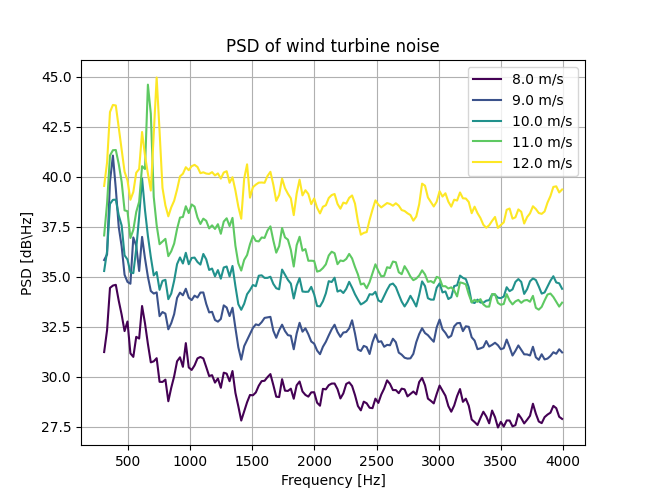
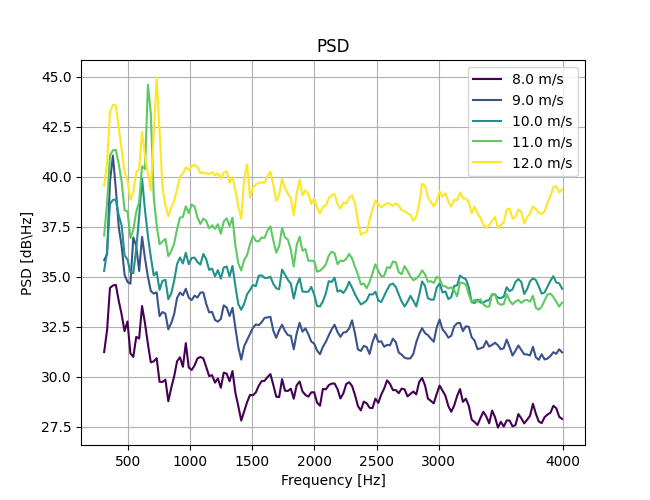
More updates

Changed region(s): [[0.3385, 0.06, 0.6769, 0.12], [0.7385, 0.9, 0.8, 0.93]]

diff --git a/analysis.py b/analysis.py
@@ -96,7 +96,7 @@ for v_inf in v_inf_list:
 
 # Prepare colors for plots
 colors = []
-for i in range(len(v_inf_list)):
+for i in range(len(v_inf_list) + 5):
     colors.append(plt.cm.get_cmap(color_scheme, len(v_inf_list))(i))
 
 
@@ -209,9 +209,10 @@ for df_wt_welch_psd_db, v_inf, color in zip(df_wt_welch_psd_db_list, v_inf_list,
     ax.plot(df_wt_welch_psd_db['freq'], df_wt_welch_psd_db['psd'], color=color, label=f'{v_inf} m/s')
 ax.set_xlabel('Frequency [Hz]')
 ax.set_ylabel('PSD [dB\Hz]')
-ax.set_title('PSD of wind turbine noise')
+ax.set_title('PSD')
 ax.legend()
 ax.grid(True)
+plt.xticks(x_ticks, x_ticks)
 plt.savefig('saves/PSD.png')
 plt.show()
 
@@ -235,13 +236,10 @@ for df_bg_welch_psd, df_wt_welch_psd, df_wt_bg_welch_psd, v_inf in zip(df_bg_wel
     df_wt_bg_spl = pd.DataFrame(columns=['freq', 'spl'])
 
     for l, c, u in zip(freq_bands[:-1], freq_bands[1:], freq_bands[2:]):
-        print("l", l)
-        print("c", c)
-        print("u", u)
         # Sum PSD in band
-        sum_bg = df_bg_welch_psd[(df_bg_welch_psd['freq'] >= l) & (df_bg_welch_psd['freq'] < u)].sum()
-        sum_wt = df_wt_welch_psd[(df_wt_welch_psd['freq'] >= l) & (df_wt_welch_psd['freq'] < u)].sum()
-        sum_wt_bg = df_wt_bg_welch_psd[(df_wt_bg_welch_psd['freq'] >= l) & (df_wt_bg_welch_psd['freq'] < u)].sum()
+        sum_bg = df_bg_welch_psd[(df_bg_welch_psd['freq'] >= l) & (df_bg_welch_psd['freq'] <= u)].sum()
+        sum_wt = df_wt_welch_psd[(df_wt_welch_psd['freq'] >= l) & (df_wt_welch_psd['freq'] <= u)].sum()
+        sum_wt_bg = df_wt_bg_welch_psd[(df_wt_bg_welch_psd['freq'] >= l) & (df_wt_bg_welch_psd['freq'] <= u)].sum()
 
         # Add row to dataframe
         df_bg_spl = df_bg_spl.append({'freq': c, 'spl': sum_bg[0] * freq_step}, ignore_index=True)
@@ -266,12 +264,13 @@ for df_bg_welch_psd, df_wt_welch_psd, df_wt_bg_welch_psd, v_inf in zip(df_bg_wel
 # Plot results for wind turbine per v_inf
 fig, ax = plt.subplots(figsize=(size_x, size_y))
 for df_wt_spl, v_inf, color in zip(df_wt_spl_list, v_inf_list, colors):
-    ax.plot(df_wt_spl['freq'], df_wt_spl['spl'], color=color, label=f'{v_inf} m/s')
+    sns.lineplot(x='freq', y='spl', data=df_wt_spl, color=color, label=f'{v_inf} m/s')
 ax.set_xlabel('Frequency [Hz]')
 ax.set_ylabel('SPL [dB]')
-ax.set_title('SPL of wind turbine noise')
+ax.set_title('SPL')
 ax.legend()
 ax.grid(True)
+plt.xticks(x_ticks, x_ticks)
 plt.savefig('saves/SPL.png')
 plt.show()
 
@@ -335,9 +334,10 @@ for df_wt_spl_1_3, df_bpm, v_inf, color in zip(df_wt_spl_1_3_list, df_bpm_list, 
 ax.set_xscale('log')
 ax.set_xlabel('Frequency [Hz]')
 ax.set_ylabel('SPL [dB]')
-ax.set_title('SPL of wind turbine noise')
+ax.set_title('SPL (1/3)')
 ax.legend()
 ax.grid(True)
+plt.xticks(x_ticks, x_ticks)
 plt.savefig('saves/SPL_1_3.png')
 plt.show()
 

diff --git a/BPM_BYU/run_validation_case.py b/BPM_BYU/run_validation_case.py
@@ -8,24 +8,33 @@ import csv
 turbx = np.array([0.])
 turby = np.array([0.])
 obs = np.array([0., 0., 1.22])
-winddir = 0.
-B = 2.
-h = 1.775
-rad = np.linspace(0, 0.4572, 10)
-c = np.array([0.3048, 0.3048, 0.3048, 0.3048, 0.3048, 0.3048, 0.3048, 0.3048, 0.3048, 0.3048])
+winddir = 90.
+B = 3.
+h = 1.22
+rad = np.linspace(0, 0.4572, 1000)
+c = np.ones(len(rad) - 1) * 0.3048
 c1 = c * 0.25
-alpha = np.array([1.516, 1.516, 1.516, 1.516, 1.516, 1.516, 1.516, 1.516, 1.516, 1.516])
-nu = 1.78e-5
-c0 = 343.2
-psi = 0
-AR = 6.66
-noise_corr = 0  # 0.8697933840957954
+alpha = np.ones(len(rad) - 1) * 1.516
+nu = 1.4529e-5
+c0 = 340.46
+psi = 0.
+AR = 0.4572 / 0.3048
+noise_corr = 0.8697933840957954
+
+print len(rad)
+print rad
+print len(c)
+print c
+print len(c1)
+print c1
+print len(alpha)
+print alpha
 
 # Iterate over velocities
 for vel in [71.3]:
 
 	windvel = np.array([vel])
-	rpm = np.array([vel * 7 * 9.549297])
+	rpm = np.array([vel * 5 * 9.549297])
 
 	SPL_HAWT = _bpmacoustic.turbinepos(turbx, turby, obs, winddir, windvel, rpm, B, h, rad, c, c1, alpha, nu, c0, psi, AR, noise_corr)
 

diff --git a/BPM_BYU/data_validation_case/plot.py b/BPM_BYU/data_validation_case/plot.py
@@ -1,0 +1,26 @@
+import matplotlib.pyplot as plt
+import numpy as np
+import pandas as pd
+import seaborn as sns
+
+f_lower = 100  # Hz
+f_upper = 30000 # Hz
+scaling_factor = 1
+size_x = 6.5 * scaling_factor
+size_y = 5 * scaling_factor
+x_ticks = [500, 1000, 1500, 2000, 2500, 3000, 4000, 5000]
+
+# Load BPM data
+df_bpm = pd.read_csv('data71.csv', sep=',')
+df_bpm = df_bpm[(df_bpm['freq'] >= f_lower) & (df_bpm['freq'] <= f_upper)]
+
+# Plot comparison on same axes
+fig, ax = plt.subplots(figsize=(size_x, size_y))
+sns.lineplot(x='freq', y='spl', data=df_bpm, ax=ax, label='BPM')
+ax.set_xscale('log')
+ax.set_yscale('linear')
+ax.set_xlabel('Frequency (Hz)')
+ax.set_ylabel('SPL (dB)')
+ax.set_xlim([f_lower, f_upper])
+plt.grid(True)
+plt.show()

diff --git a/BPM_BYU/how_to_run.md b/BPM_BYU/how_to_run.md
@@ -1,0 +1,19 @@
+Best way to run this is in a linux VM with a fortran compiler installed. Also, you will need python2.7
+
+1. Clone the repository
+2. Navigate to the directory
+3. Run the following commands:
+```
+sudo apt-get install gfortran
+sudo apt-get install python2.7
+sudo apt-get install python-pip
+sudo pip install numpy
+```
+4. Run the following command to compile the fortran code:
+```
+sudo python2.7 setup.py install
+```
+5. Run the following command to run the code:
+```
+python2.7 run.py
+```
